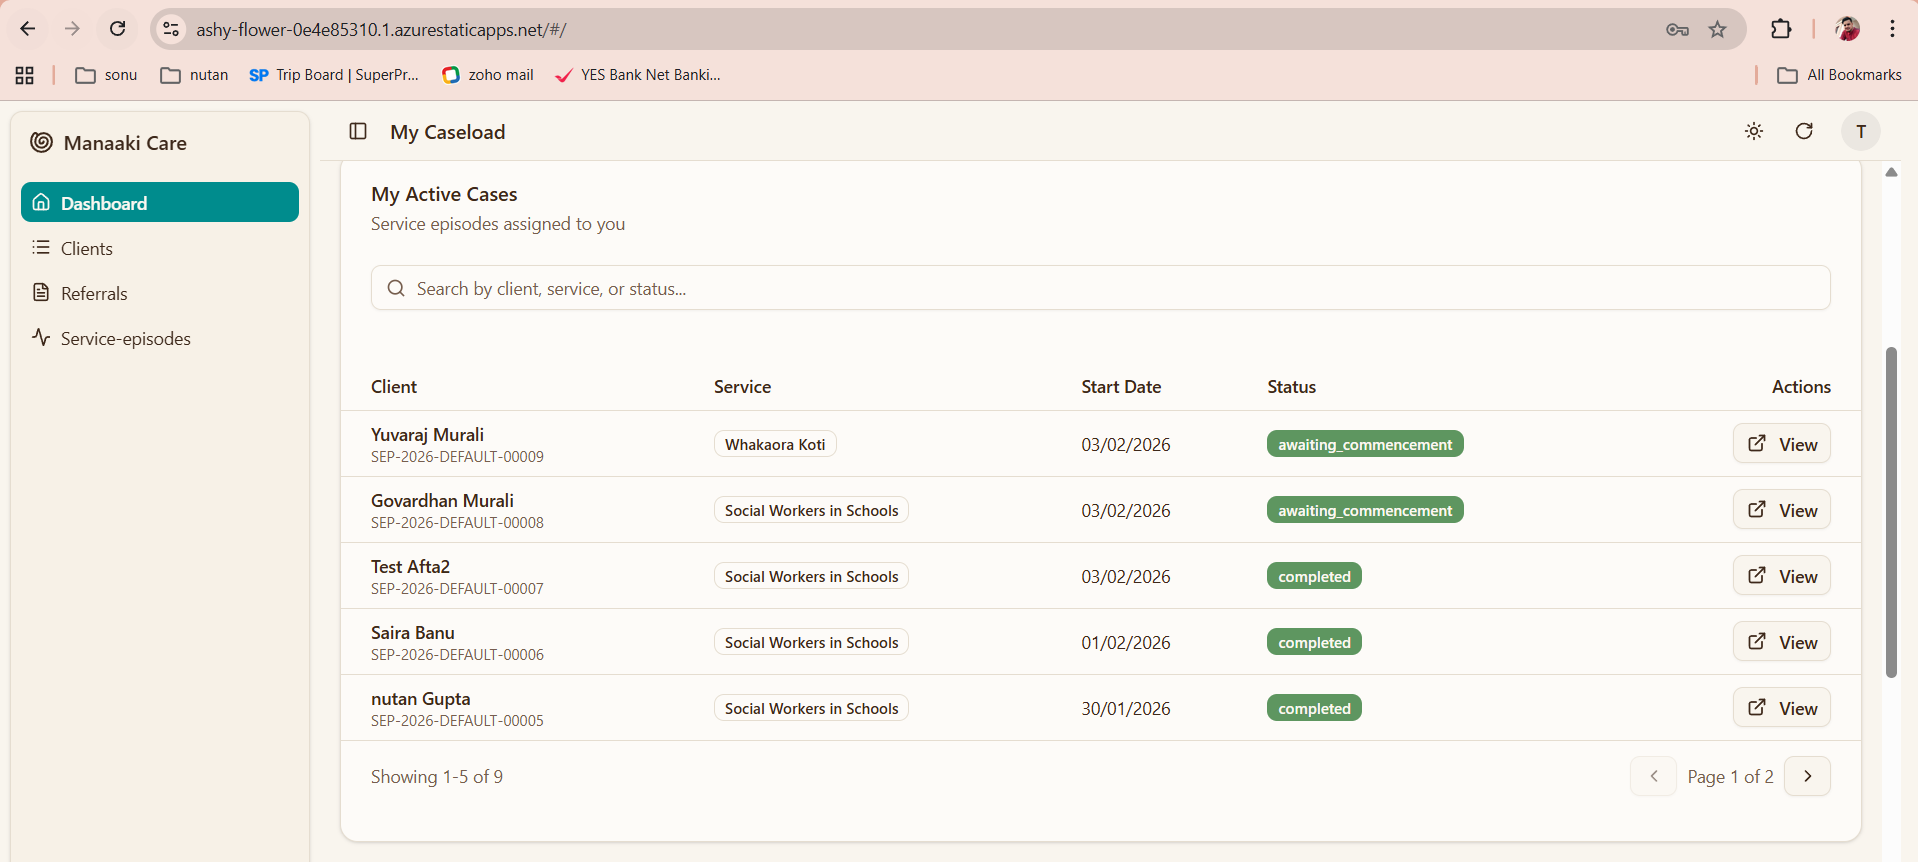
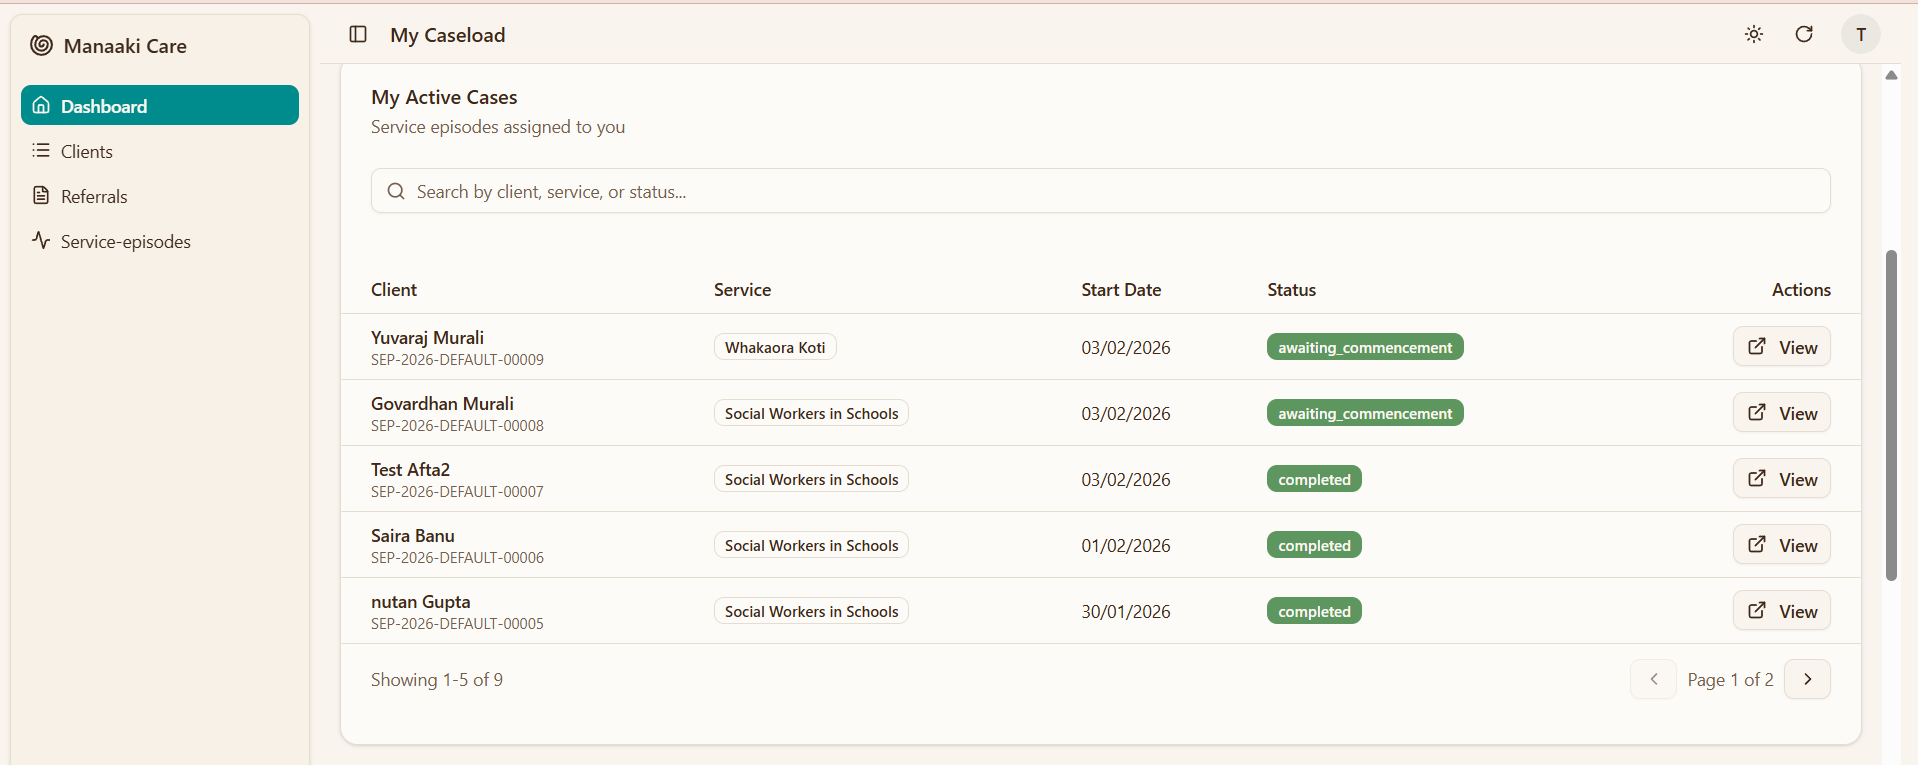
fix(screenshots): remove a colleague's browser chrome from a live image
case_worker/dashboard/my_active_cases.png is published on
docs.manaakitech.com and was captured as a full browser window. It shows
an internal Azure Static Web Apps staging hostname in the address bar and,
below it, the photographer's own bookmarks bar — labels reading as private
mail and personal banking.

That is one of our own people's private information on a public site, and
it is live now rather than on Monday. This commit is deliberately narrow
so it can be cherry-picked to main ahead of the manual work.

Cropped rather than replaced. docs/dashboards/case-worker.mdx describes
this screenshot closely — the column names, the SEP-2026-DEFAULT-00009
reference, the service badges — so substituting a newer capture would
leave that prose describing a picture that is no longer there. The leak
sits entirely above the application viewport, so removing that strip
fixes it and leaves every existing sentence true.

Still wrong in this image, and needing a re-shoot rather than a crop:
the superseded "Manaaki Care" branding, and raw database statuses
(awaiting_commencement, completed) shown where human words belong.

Claude-Session: https://claude.ai/code/session_017hkRjkg7YVBJUUavTXwHTQ

diff --git a/tools/fix_live_screenshots.py b/tools/fix_live_screenshots.py
@@ -1,0 +1,60 @@
+#!/usr/bin/env python3
+"""Crop browser chrome off screenshots that are already published.
+
+Some of the screenshots on the live docs site were taken as full browser
+windows. One of them (`case_worker/dashboard/my_active_cases.png`) captured the
+photographer's own bookmarks bar along with an internal staging hostname in the
+address bar — a real person's private information, on a public site.
+
+Cropping rather than replacing is deliberate. The surrounding documentation
+describes these screenshots in detail — column names, example reference numbers,
+service names — so swapping in a newer screenshot would leave the prose
+describing a picture that is no longer there. The leak is entirely above the
+application viewport, so removing that strip fixes the problem and leaves every
+existing sentence true.
+
+Idempotent: an entry whose image is already shorter than the expected original
+height is skipped, so re-running does not eat into the page content.
+
+    python3 tools/fix_live_screenshots.py
+"""
+
+import os
+import sys
+
+sys.path.insert(0, os.path.dirname(os.path.abspath(__file__)))
+import pngkit
+
+ROOT = os.path.dirname(os.path.dirname(os.path.abspath(__file__)))
+
+# path relative to static/ -> (original height, pixels of chrome to remove, why)
+CHROME = {
+	'case_worker/dashboard/my_active_cases.png': (
+		862,
+		97,
+		'Address bar showing an internal Azure staging host, plus a personal '
+		'bookmarks bar with private mail and banking links.',
+	),
+}
+
+
+def main():
+	for rel, (expected_height, chrome, reason) in CHROME.items():
+		path = os.path.join(ROOT, 'static', rel)
+		if not os.path.exists(path):
+			print(f'  ! {rel} not found')
+			continue
+
+		img = pngkit.read(path)
+		if img.height != expected_height:
+			print(f'  - {rel}: height {img.height}, expected {expected_height} — already done, skipping')
+			continue
+
+		cropped = pngkit.crop(img, (0, chrome, img.width, img.height - chrome))
+		pngkit.write(path, cropped)
+		print(f'  {rel}: {img.width}x{img.height} -> {cropped.width}x{cropped.height}')
+		print(f'      removed: {reason}')
+
+
+if __name__ == '__main__':
+	main()
